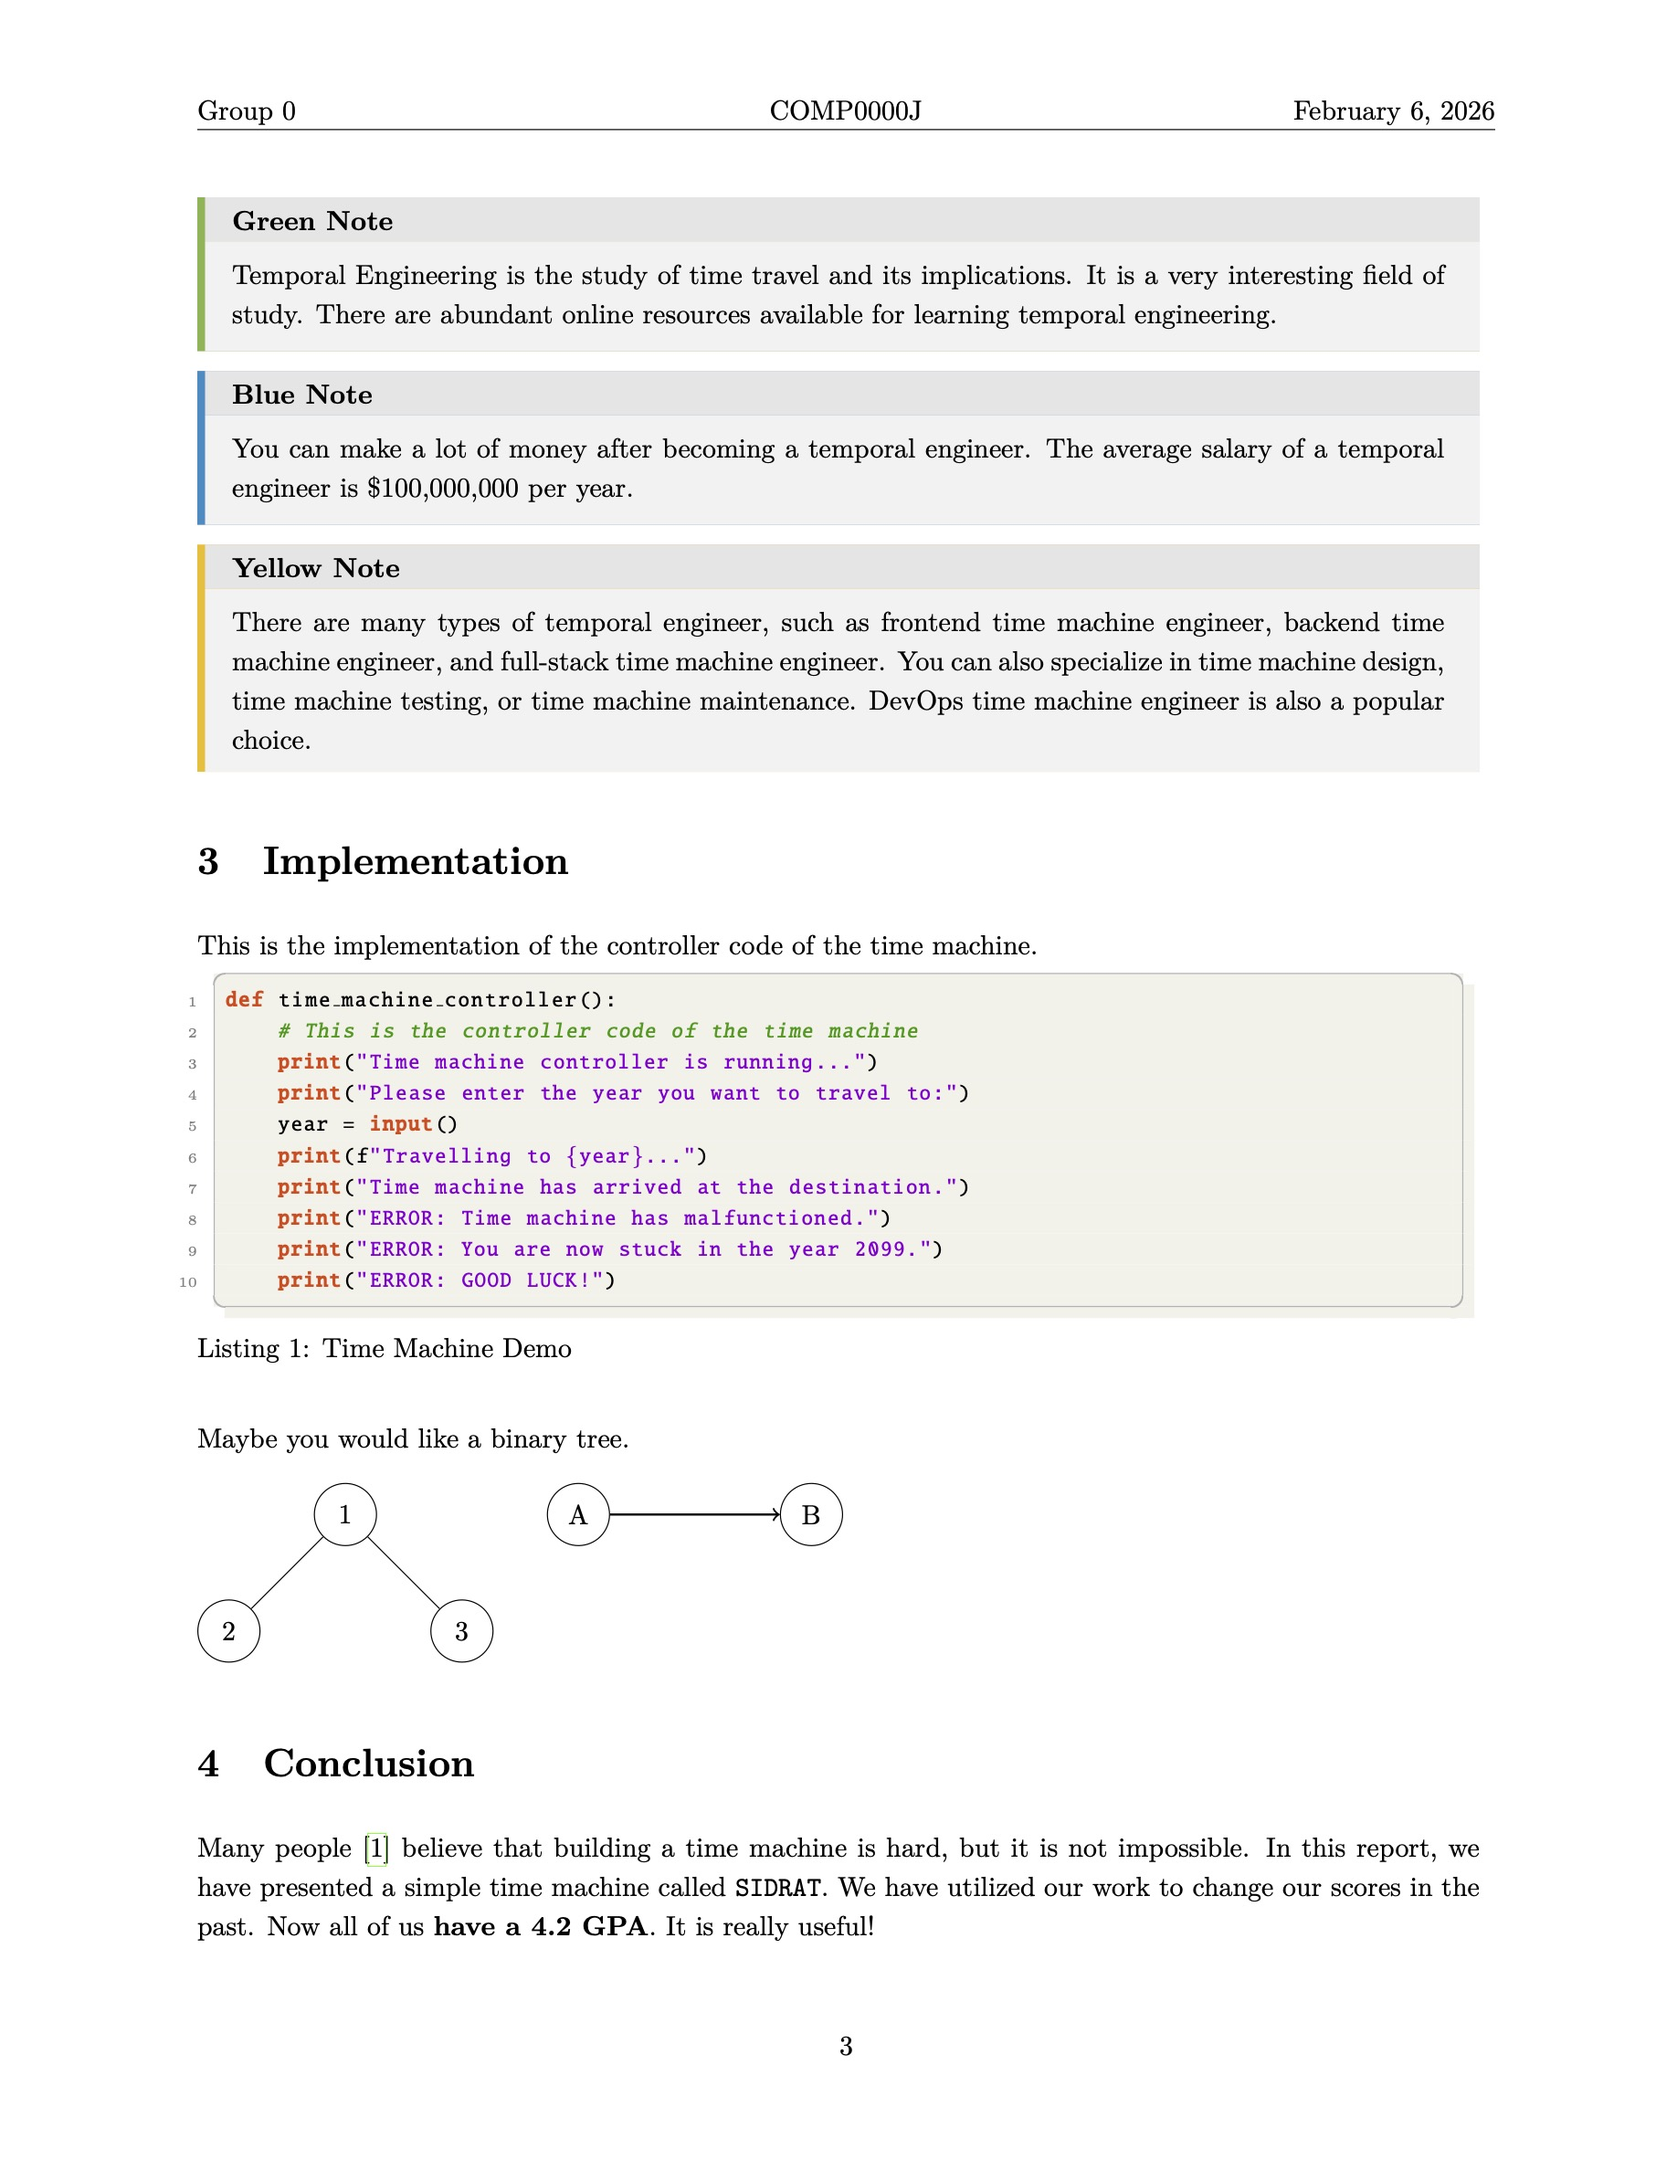
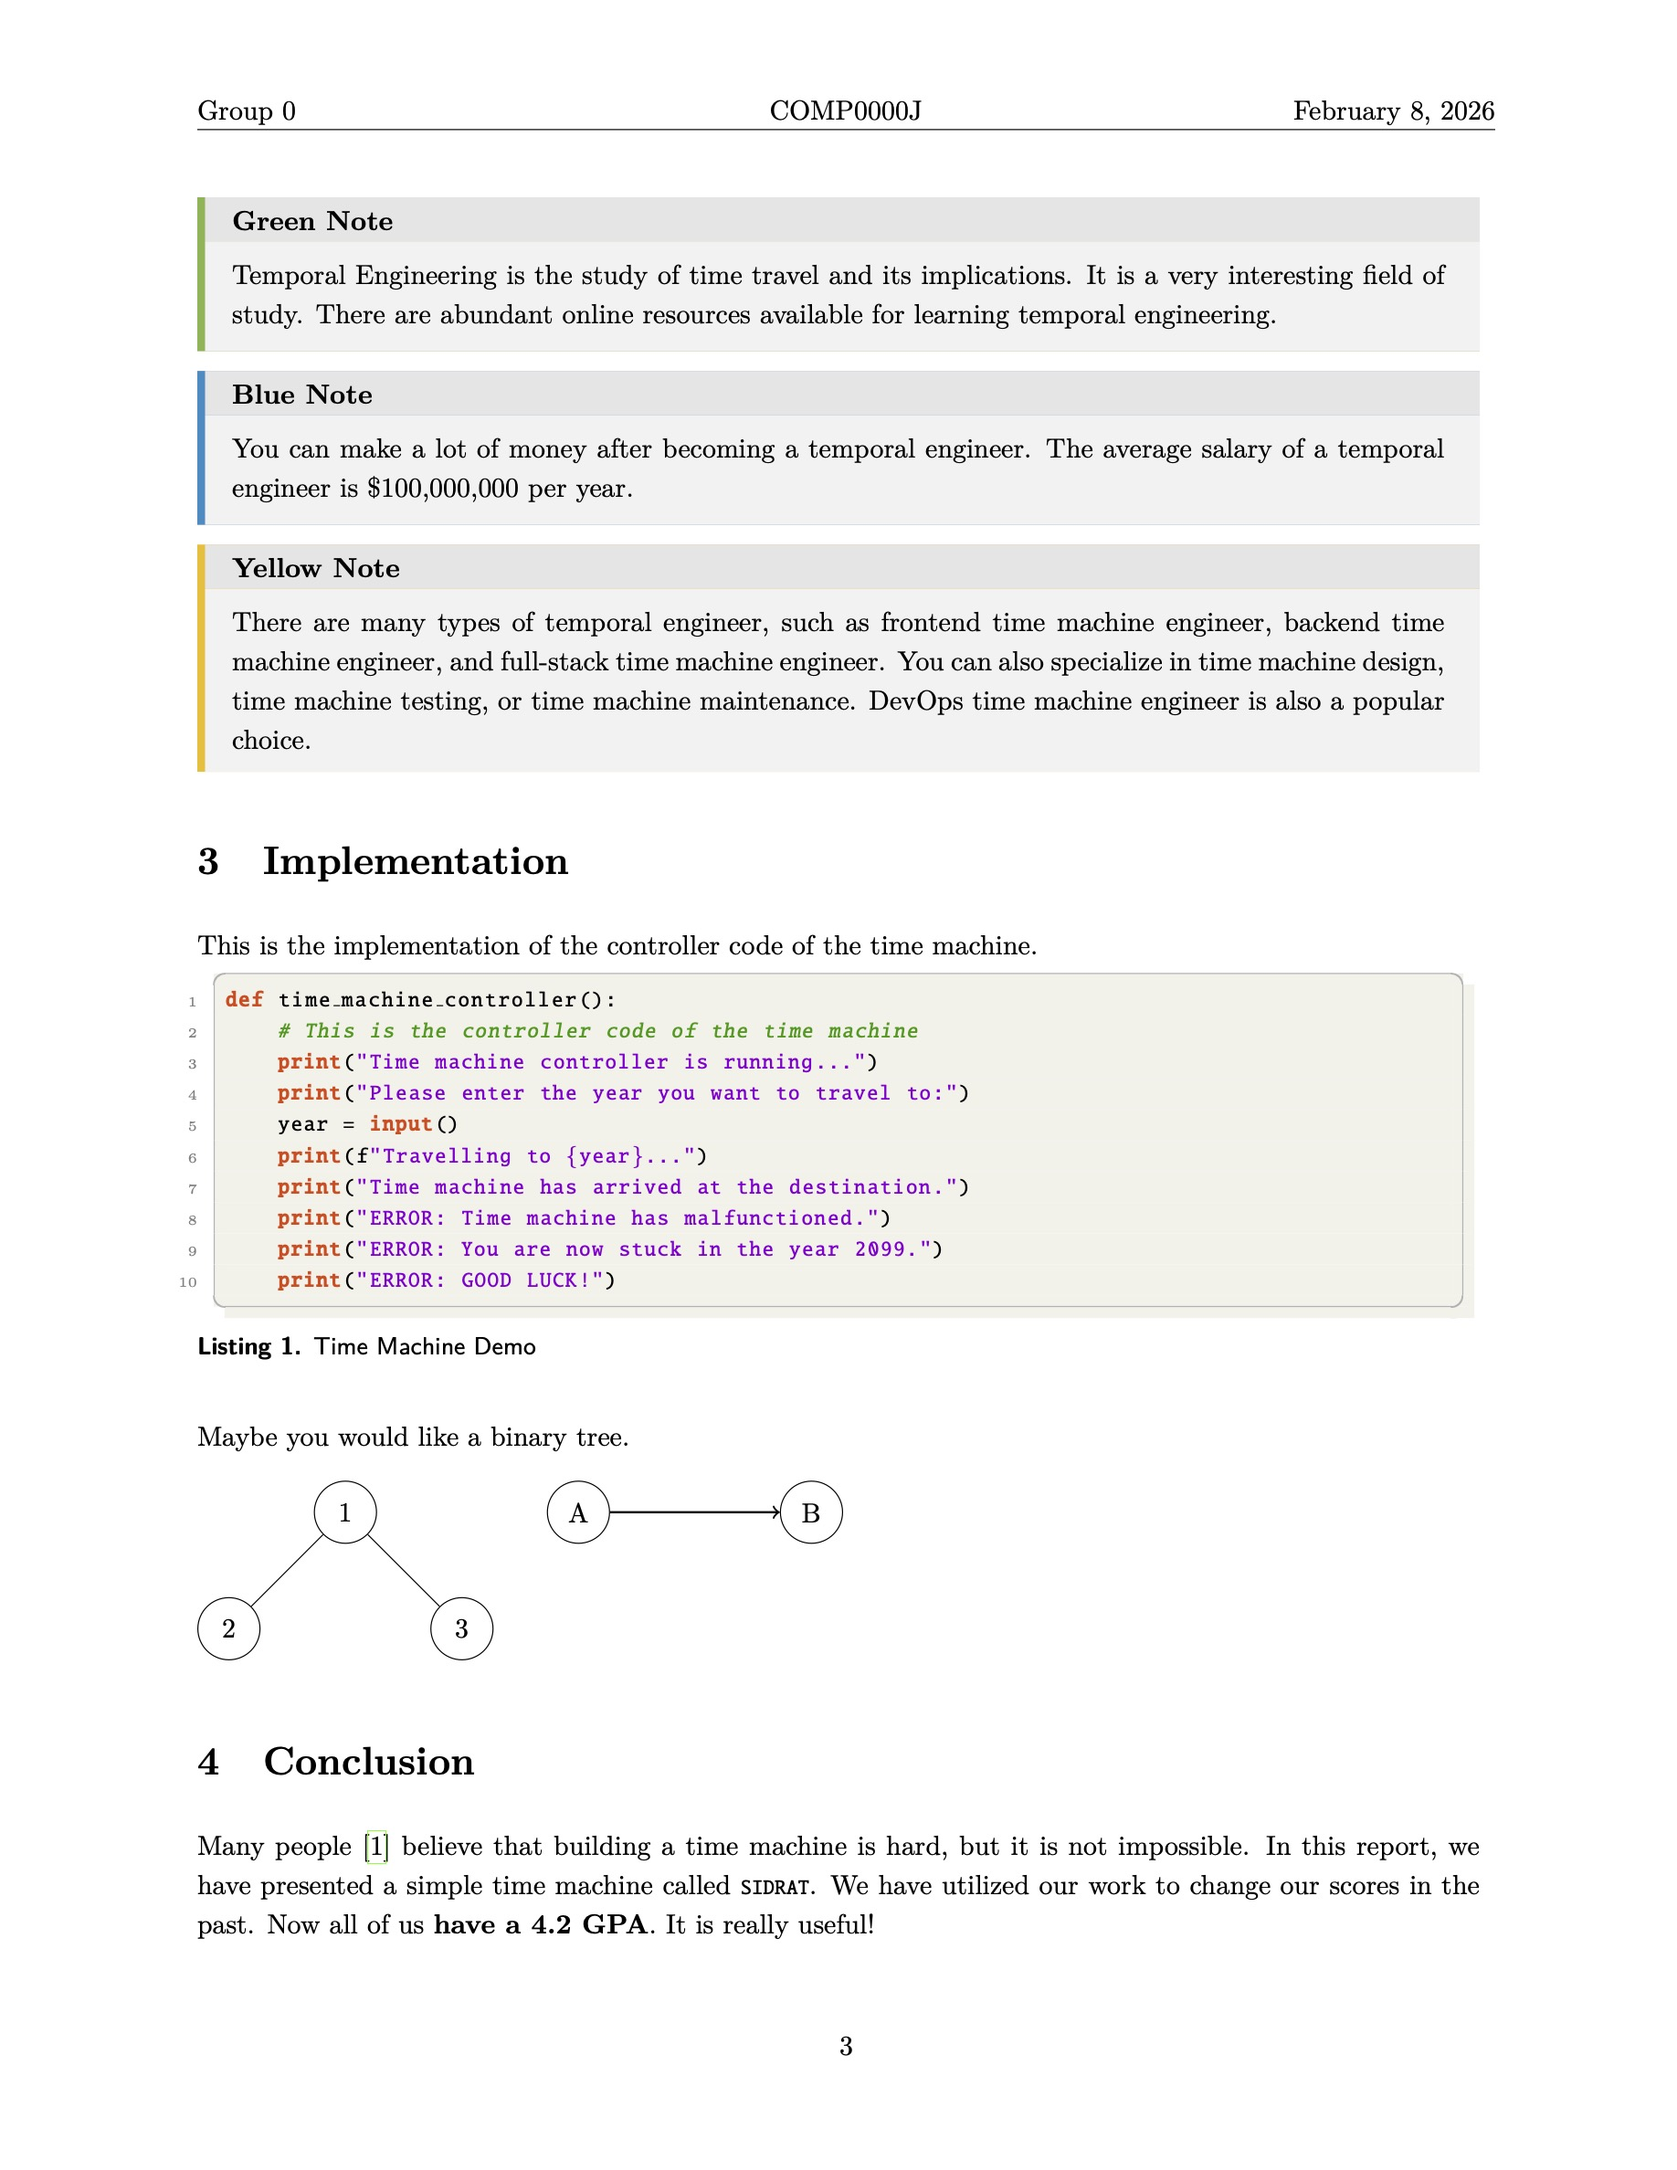
Refine the caption style

diff --git a/src/intro.tex b/src/intro.tex
@@ -1,4 +1,4 @@
-In this report, we present a simple time machine called \texttt{SIDRAT}. The time machine is a simple device that can be used to travel back in time. The time machine is powered by a flux capacitor, which generates the 1.21 gigawatts of power required to travel through time. The time machine is controlled by a simple interface that allows the user to input the desired time and date to travel to. The time machine is equipped with a safety feature that prevents the user from killing their grandparents and the creators of this machine.
+In this report, we present a simple time machine called \lstinline{SIDRAT}. The time machine is a simple device that can be used to travel back in time. The time machine is powered by a flux capacitor, which generates the 1.21 gigawatts of power required to travel through time. The time machine is controlled by a simple interface that allows the user to input the desired time and date to travel to. The time machine is equipped with a safety feature that prevents the user from killing their grandparents and the creators of this machine.
 
 \begin{figure}[ht!]
     \includegraphics[width=0.6\textwidth]{figures/placeholder.jpg}

diff --git a/src/conclusion.tex b/src/conclusion.tex
@@ -1,1 +1,1 @@
-Many people \cite{Smith_2012} believe that building a time machine is hard, but it is not impossible. In this report, we have presented a simple time machine called \texttt{SIDRAT}. We have utilized our work to change our scores in the past. Now all of us \textbf{have a 4.2 GPA}. It is really useful!
+Many people \cite{Smith_2012} believe that building a time machine is hard, but it is not impossible. In this report, we have presented a simple time machine called \lstinline{SIDRAT}. We have utilized our work to change our scores in the past. Now all of us \textbf{have a 4.2 GPA}. It is really useful!
